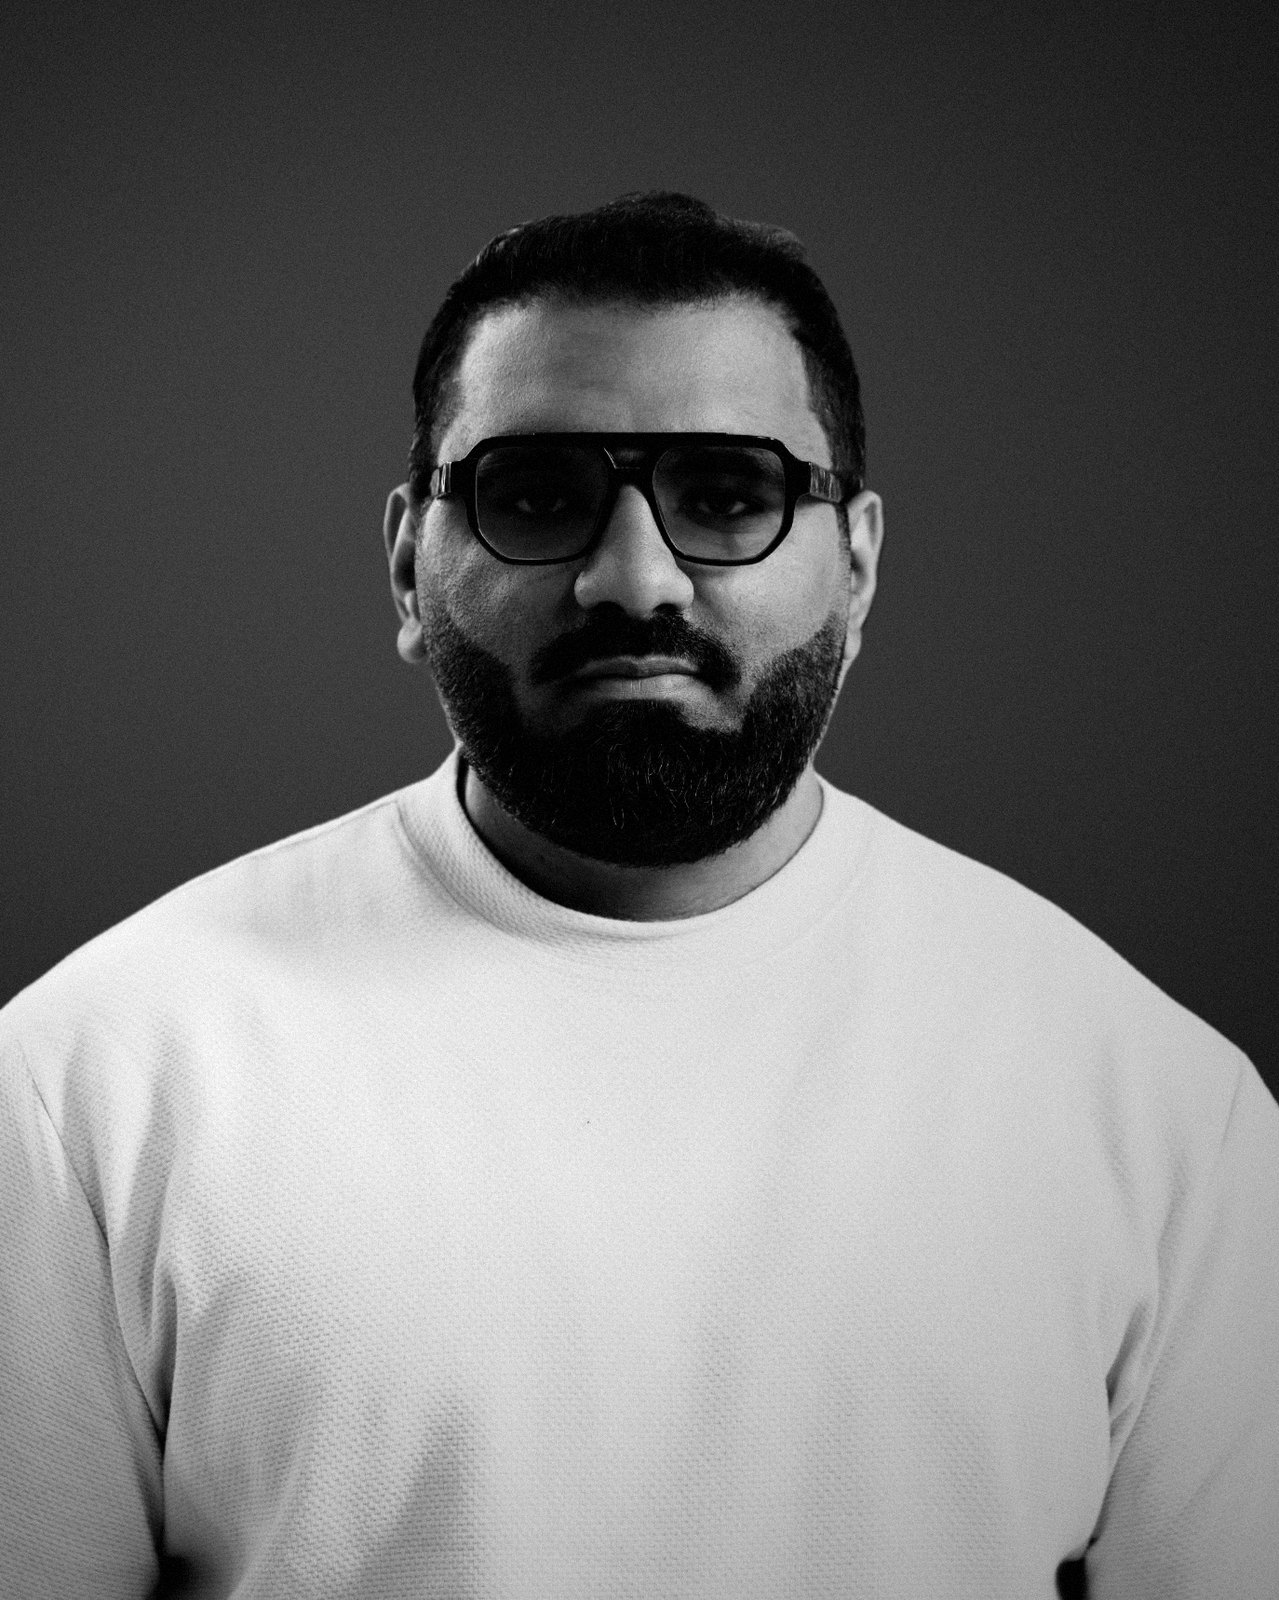
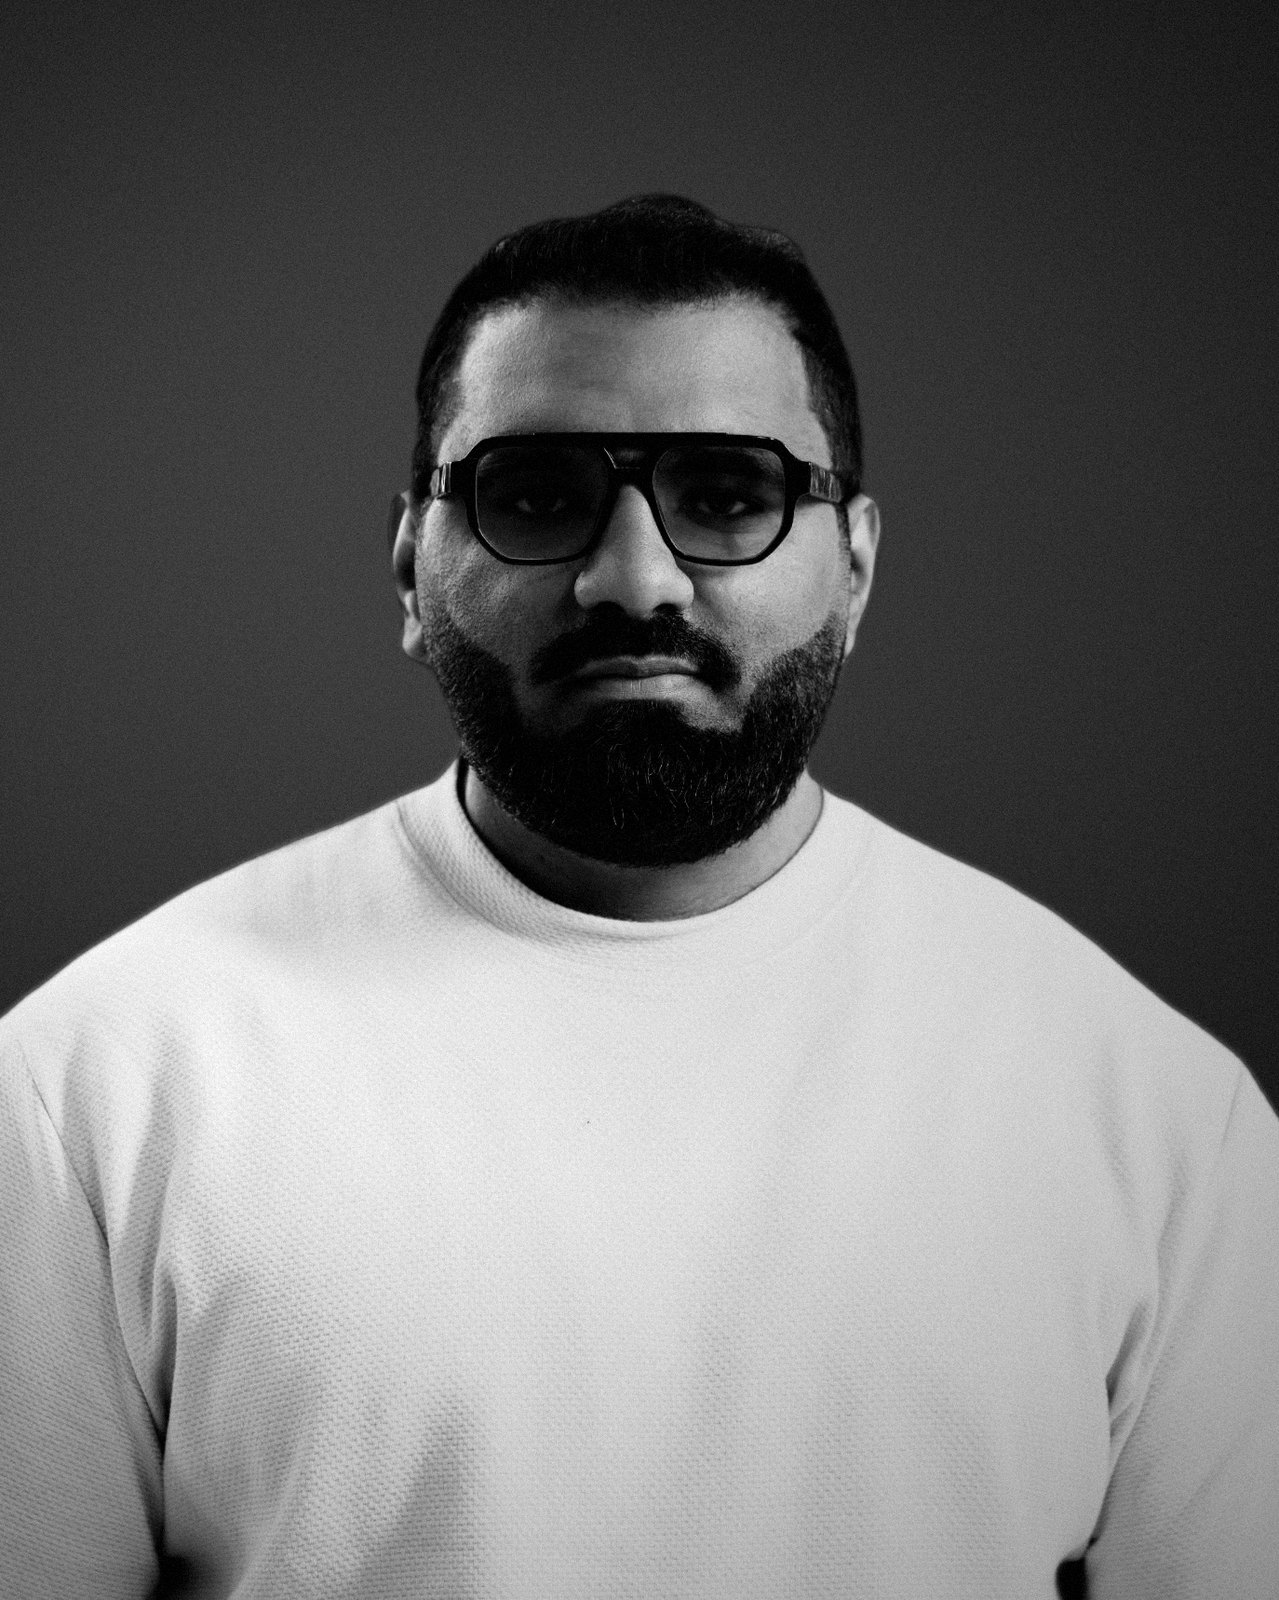
Hero: clearer portrait, no edge halo, title no longer covers photo
Claude-Session: https://claude.ai/code/session_01HMUCGHAcQVnuPvPZUrsUDy

diff --git a/src/routes/+page.svelte b/src/routes/+page.svelte
@@ -212,16 +212,17 @@
 <style>
   .hero { position: relative; min-height: 100svh; display: flex; flex-direction: column; justify-content: flex-end; padding: 120px var(--pad) 36px; overflow: hidden; }
   .hero > :not(:global(canvas)) { position: relative; z-index: 1; }
-  .hero > .portrait { position: absolute; z-index: 0; right: 4vw; bottom: 0; width: min(44vw, 680px); height: 94%; pointer-events: none; overflow: hidden;
-    -webkit-mask-image: linear-gradient(to top, transparent 0%, #000 38%), linear-gradient(to right, transparent 0%, #000 22%, #000 78%, transparent 100%);
-    -webkit-mask-composite: source-in; mask-image: linear-gradient(to top, transparent 0%, #000 38%), linear-gradient(to right, transparent 0%, #000 22%, #000 78%, transparent 100%); mask-composite: intersect; }
-  .portrait img { width: 100%; height: 100%; object-fit: cover; object-position: 50% 15%; filter: grayscale(1) contrast(1.1) brightness(0.8); opacity: 0.8; will-change: transform; }
-  @media (max-width: 760px) { .hero > .portrait { right: 0; left: 0; width: 100%; height: 78%; top: 70px; bottom: auto; } .portrait img { opacity: 0.45; } }
+  .hero > .portrait { position: absolute; z-index: 0; right: 0; bottom: 0; width: min(42vw, 760px); height: 100%; pointer-events: none; overflow: hidden;
+    -webkit-mask-image: linear-gradient(to top, transparent 0%, #000 22%), linear-gradient(to right, transparent 0%, #000 32%);
+    -webkit-mask-composite: source-in; mask-image: linear-gradient(to top, transparent 0%, #000 22%), linear-gradient(to right, transparent 0%, #000 32%); mask-composite: intersect; }
+  .portrait img { width: 100%; height: 100%; object-fit: cover; object-position: 50% 15%; filter: grayscale(1) contrast(1.05); opacity: 1; will-change: transform; }
+  @media (max-width: 760px) { .hero > .portrait { right: 0; left: 0; width: 100%; height: 78%; top: 70px; bottom: auto; } .portrait img { opacity: 0.55; } }
   .hero-top { position: absolute !important; top: 110px; left: var(--pad); right: var(--pad); display: flex; justify-content: space-between; gap: 20px; }
   .hero-top p { max-width: 300px; color: rgba(236, 235, 228, 0.75); }
   .hero-top .r { text-align: right; }
-  .title { font-weight: 700; font-size: clamp(64px, 17.5vw, 300px); line-height: 0.82; letter-spacing: -0.065em; text-transform: uppercase; }
+  .title { font-weight: 700; font-size: clamp(64px, 17.5vw, 300px); max-width: 100%; line-height: 0.82; letter-spacing: -0.065em; text-transform: uppercase; }
   .title .r { text-align: right; }
+  @media (min-width: 761px) { .title { font-size: clamp(64px, 13.5vw, 250px); } .title .r { text-align: left; padding-left: 9vw; } }
   .title .serif { text-transform: none; font-weight: 400; letter-spacing: -0.02em; color: var(--heat); }
   .hero-bottom { display: grid; grid-template-columns: 1fr 1fr 1fr; align-items: end; margin-top: 36px; gap: 20px; border-top: 1px solid var(--line); padding-top: 18px; }
   .lead { font-size: clamp(18px, 1.6vw, 24px); line-height: 1.25; max-width: 460px; letter-spacing: -0.01em; }
